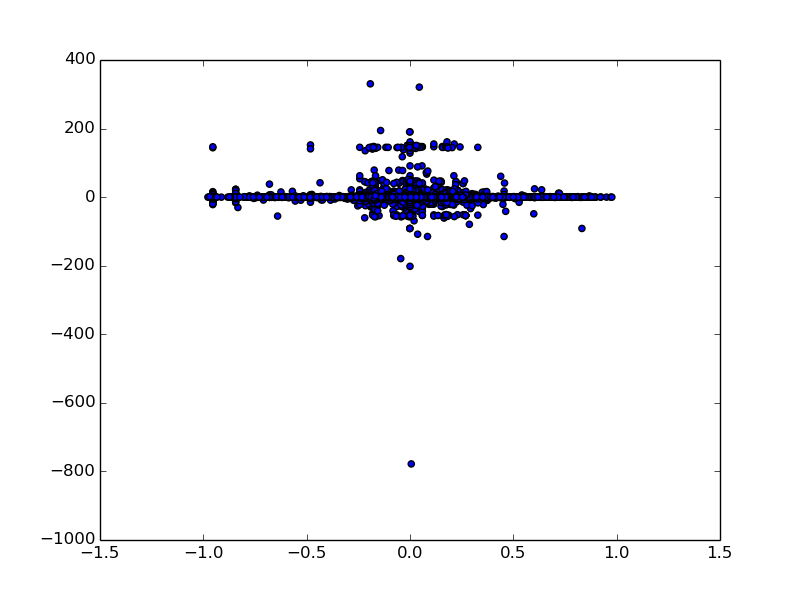
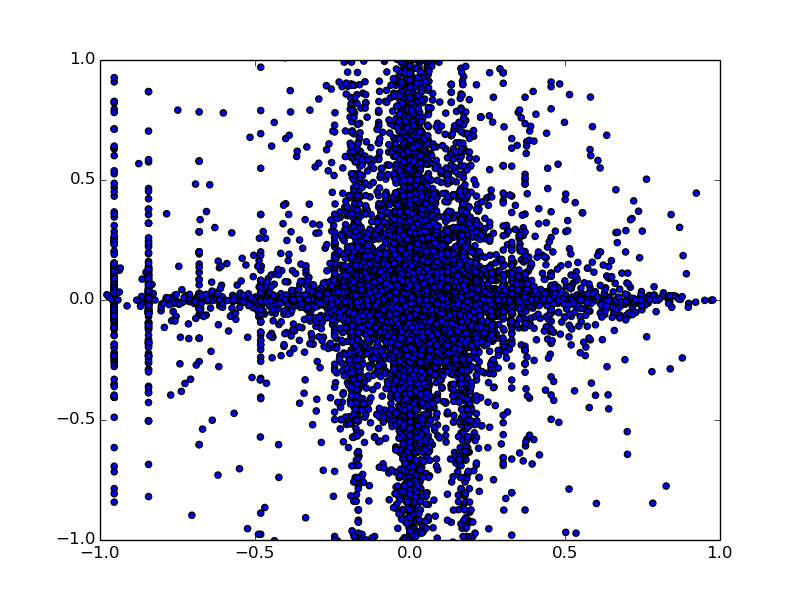
updates

diff --git a/src/model_parameter_comparison.py b/src/model_parameter_comparison.py
@@ -3,6 +3,8 @@ __author = 'Jonathan Rubin'
 import matplotlib
 matplotlib.use('Agg')
 import matplotlib.pyplot as plt
+from scipy.stats import gaussian_kde
+import numpy as np
 
 file1 = '/scratch/Shares/dowell/ENCODE/Rubin2016_genes_DMSO-1_K_models_MLE.tsv'
 file2 = '/scratch/Shares/dowell/ENCODE/Rubin2016_genes_CA-1_K_models_MLE.tsv'
@@ -84,7 +86,9 @@ def run2(file1,file2,file3):
                     x.append(d2[gene][2]-d1[gene][2])
                     y.append(d3[key])
     F = plt.figure()
-    plt.scatter(x,y)
+    xy = np.vstack([x,y])
+    z = gaussian_kde(xy)(xy)
+    plt.scatter(x,y,c=z,edgecolor="",s=14)
     plt.ylim([-1,1])
     plt.xlim([-1,1])
     plt.savefig(savedir + '/model_parameter_comparison.png')
